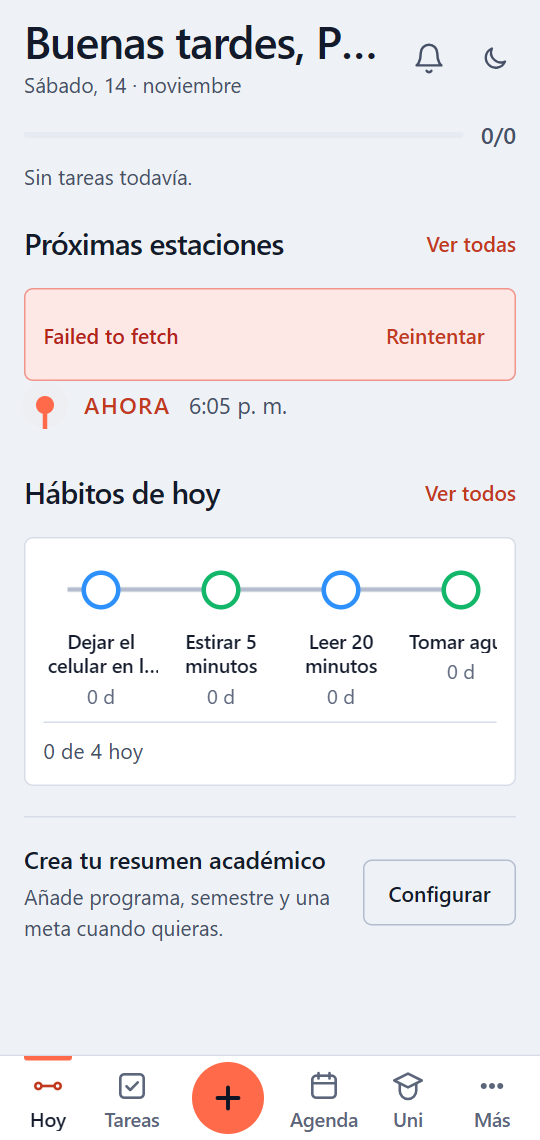
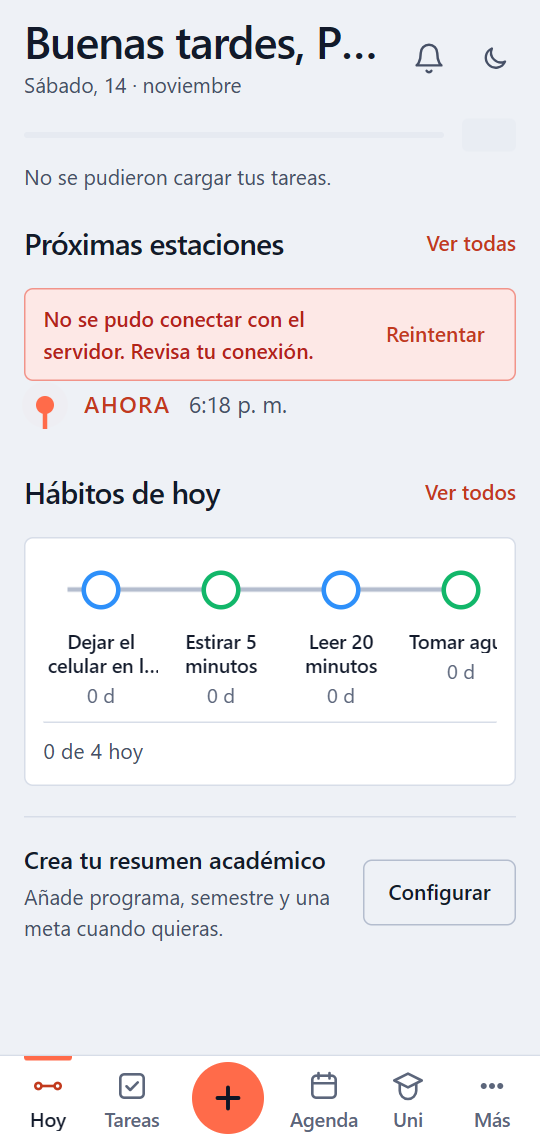
fix(front): fallos de red en español y sin datos falsos en ninguna pantalla (#168)

diff --git a/frontend/src/screens/HabitsScreen.tsx b/frontend/src/screens/HabitsScreen.tsx
@@ -1,5 +1,5 @@
 import { useEffect, useMemo, useRef, useState } from "react";
-import { ProgressBar, ScreenHeader, Skeleton } from "../components/shared";
+import { ErrorBanner, ProgressBar, ScreenHeader, Skeleton } from "../components/shared";
 import { IconBook, IconMeditate, IconNoPhone, IconPencil, IconReadingBook, IconRun, IconTarget } from "../components/icons";
 import { createHabit, deleteHabit, fetchHabitSummaries, fetchHabits, toLocalKey, todayKey, updateHabit, updateHabitCompletion, completeLabel, type Habit, type HabitType, type HabitStats, type HabitSummary, type MonthlyGoal } from "../services/habitsApi";
 
@@ -63,6 +63,8 @@ export default function HabitsScreen({ onBack, refreshTick }: Props) {
   }, [summaryKey, statsWindow, summaryTick]);
 
   const doneToday = habits.filter((habit) => habit.completedDates.includes(todayKey())).length;
+  // Sin la lista real no se afirma «0/0 hábitos hoy».
+  const habitsKnown = !loading && !(error && habits.length === 0);
   const completion = habits.length ? Math.round((doneToday / habits.length) * 100) : 0;
   const weekDates = useMemo(() => {
     const today = new Date();
@@ -167,7 +169,9 @@ export default function HabitsScreen({ onBack, refreshTick }: Props) {
 
       <div ref={scrollRef} className="min-h-0 flex-1 overflow-y-auto no-scrollbar px-4 pt-3 pb-8 flex flex-col gap-4 lg:px-8 lg:pt-6 lg:max-w-[760px] [&>*]:shrink-0">
         <div className="rounded-md border border-line bg-card p-4">
-          <p className="num text-[44px] font-semibold leading-none text-ink">{doneToday}<span className="text-[24px] text-ink-3">/{habits.length}</span> <span className="text-[16px] font-medium text-ink-2">hábitos hoy</span></p>
+          {habitsKnown
+            ? <p className="num text-[44px] font-semibold leading-none text-ink">{doneToday}<span className="text-[24px] text-ink-3">/{habits.length}</span> <span className="text-[16px] font-medium text-ink-2">hábitos hoy</span></p>
+            : loading ? <Skeleton className="h-[44px] w-44" /> : <p className="flex h-[44px] items-center text-[16px] font-medium text-ink-2">Hábitos de hoy no disponibles</p>}
           <div className="mt-3"><ProgressBar value={completion} height={4} /></div>
           {habits.length > 0 && (
             <div className="mt-4 flex items-center justify-between gap-3">
@@ -183,8 +187,8 @@ export default function HabitsScreen({ onBack, refreshTick }: Props) {
 
         {creating && <form onSubmit={submitHabit} className="rounded-lg bg-card p-4 flex flex-col gap-3">{editingId && <p className="text-[13px] font-semibold text-ink-2">Editando hábito · tu historial de cumplimiento se conserva</p>}<div role="radiogroup" aria-label="Tipo de hábito" className="flex rounded-md bg-wash p-1">{(["BUILD", "QUIT"] as const).map((option) => <button key={option} type="button" role="radio" aria-checked={type === option} onClick={() => setType(option)} className="min-h-[44px] flex-1 rounded-lg py-2 text-[13px] font-bold" style={{ background: type === option ? "var(--color-card)" : "transparent" }}>{option === "BUILD" ? "Por construir" : "Para dejar"}</button>)}</div><input autoFocus aria-label="Nombre del hábito" value={title} onChange={(event) => setTitle(event.target.value)} placeholder={type === "QUIT" ? "Ej. No fumar" : "Ej. Leer 20 minutos"} className="rounded-md border border-line bg-paper px-3 py-2.5 text-[14px] outline-none focus:border-violet" /><div className="flex rounded-md bg-wash p-1"><button type="button" onClick={() => { setFrequency("diaria"); setDaysOfWeek([1, 2, 3, 4, 5, 6, 7]); }} className="flex-1 rounded-lg py-2 text-[13px] font-bold" style={{ background: frequency === "diaria" ? "var(--color-card)" : "transparent" }}>Diario</button><button type="button" onClick={() => setFrequency("personalizada")} className="flex-1 rounded-lg py-2 text-[13px] font-bold" style={{ background: frequency === "personalizada" ? "var(--color-card)" : "transparent" }}>Días</button></div>{frequency === "personalizada" && <div className="flex justify-between">{DAYS.map((day, index) => <button key={day} type="button" onClick={() => toggleDay(index + 1)} className="h-11 min-w-0 max-w-11 flex-1 rounded-full text-[13px] font-bold" style={{ background: daysOfWeek.includes(index + 1) ? color : "var(--color-wash)", color: daysOfWeek.includes(index + 1) ? "white" : "var(--color-ink-2)" }}>{day}</button>)}</div>}<label className="flex items-center justify-between gap-3 text-[13px] font-semibold text-ink-2">Meta mensual (opcional)<span className="flex items-center gap-1"><input type="number" inputMode="numeric" min={1} max={100} aria-label="Meta mensual en porcentaje" value={monthlyGoal} onChange={(event) => setMonthlyGoal(event.target.value)} placeholder="80" className="num w-16 rounded-md border border-line bg-paper px-2 py-1.5 text-right text-[14px] outline-none focus:border-violet" /><span>%</span></span></label><div className="flex items-center justify-between"><div className="flex gap-2">{(COLORS.includes(color) ? COLORS : [...COLORS, color]).map((option) => <button key={option} type="button" aria-label={`Color ${option}`} onClick={() => setColor(option)} className="h-6 w-6 rounded-full border-2" style={{ background: option, borderColor: color === option ? "var(--color-night)" : "transparent" }} />)}</div><select value={icon} onChange={(event) => setIcon(event.target.value as keyof typeof ICONS)} className="rounded-md border border-line bg-paper px-2 py-1.5 text-[13px]"><option value="target">Meta</option><option value="book">Estudio</option><option value="run">Ejercicio</option><option value="reading">Lectura</option><option value="meditate">Calma</option><option value="phone">Sin redes</option></select></div><div className="flex gap-2"><button type="button" onClick={resetForm} className="rounded-md bg-wash px-3 py-2 text-[13px] font-bold text-ink-2">Cancelar</button><button disabled={!title.trim() || saving} className="rounded-md bg-violet px-3 py-2 text-[13px] font-bold text-white disabled:opacity-50">{saving ? (editingId ? "Guardando..." : "Creando...") : editingId ? "Guardar cambios" : "Crear hábito"}</button></div></form>}
 
-        {error && <p className="text-[13px] font-semibold text-danger">{error}</p>}
-        {loading ? <HabitListSkeleton /> : habits.length === 0 ? <div className="rounded-md border border-dashed border-line-strong px-5 py-10 text-center"><p className="font-display text-[22px] font-semibold leading-none text-ink">Tu primera rutina empieza aquí</p><p className="mt-1 text-[13px] leading-relaxed text-ink-2">Crea un hábito pequeño y marca tu avance cada día.</p><button onClick={startCreate} className="mt-4 min-h-[44px] rounded-md bg-coral px-5 text-[15px] font-semibold text-night">Crear hábito</button></div> : habits.map((habit) => <HabitCard key={habit.id} habit={habit} weekDates={weekDates} saving={saving} summary={summaries[habit.id]} summaryFailed={summaryFailed} onRetrySummary={() => setSummaryTick((tick) => tick + 1)} onToggle={() => toggleHabit(habit)} onEdit={() => startEdit(habit)} onDelete={() => removeHabit(habit.id)} />)}
+        {error && <ErrorBanner message={error} onRetry={loadHabits} />}
+        {loading ? <HabitListSkeleton /> : habits.length === 0 && error ? null : habits.length === 0 ? <div className="rounded-md border border-dashed border-line-strong px-5 py-10 text-center"><p className="font-display text-[22px] font-semibold leading-none text-ink">Tu primera rutina empieza aquí</p><p className="mt-1 text-[13px] leading-relaxed text-ink-2">Crea un hábito pequeño y marca tu avance cada día.</p><button onClick={startCreate} className="mt-4 min-h-[44px] rounded-md bg-coral px-5 text-[15px] font-semibold text-night">Crear hábito</button></div> : habits.map((habit) => <HabitCard key={habit.id} habit={habit} weekDates={weekDates} saving={saving} summary={summaries[habit.id]} summaryFailed={summaryFailed} onRetrySummary={() => setSummaryTick((tick) => tick + 1)} onToggle={() => toggleHabit(habit)} onEdit={() => startEdit(habit)} onDelete={() => removeHabit(habit.id)} />)}
       </div>
     </div>
   );

diff --git a/frontend/src/screens/HomeScreen.tsx b/frontend/src/screens/HomeScreen.tsx
@@ -1,7 +1,7 @@
 import { useEffect, useMemo, useState } from "react";
 import ThemeToggle from "../components/ThemeToggle";
 import NotificationBell from "../components/NotificationBell";
-import { Badge, CategoryBadge, PriorityDot, ProgressBar, SectionTitle, Station, ErrorBanner } from "../components/shared";
+import { Badge, CategoryBadge, PriorityDot, ProgressBar, SectionTitle, Station, ErrorBanner, Skeleton } from "../components/shared";
 import { fetchTasks, toUiTask, updateTaskStatus, type UiTask } from "../services/tasksApi";
 import { fetchUserProfile, type UserProfile } from "../services/profileApi";
 import { categoryLabel, fetchCategories, type Category } from "../services/categoriesApi";
@@ -105,6 +105,8 @@ export default function HomeScreen({ userName, onTaskTap, onHabits, onFab, onVie
 
   const completedTasks = tasks.filter((task) => task.done).length;
   const pendingTasks = tasks.length - completedTasks;
+  // Hasta tener las tareas reales no se afirma nada del día (ni «0/0», ni «sin tareas», ni «vas a tiempo»).
+  const tasksKnown = !loading && !taskError;
   const taskProgress = tasks.length ? Math.round((completedTasks / tasks.length) * 100) : 0;
 
   const weekday = (new Date().getDay() + 6) % 7 + 1;
@@ -167,10 +169,14 @@ export default function HomeScreen({ userName, onTaskTap, onHabits, onFab, onVie
         </div>
         <div className="mt-3 flex items-center gap-3">
           <div className="flex-1"><ProgressBar value={taskProgress} height={4} /></div>
-          <p className="num whitespace-nowrap text-[15px] font-medium text-ink-2">{completedTasks}/{tasks.length}</p>
+          {tasksKnown
+            ? <p className="num whitespace-nowrap text-[15px] font-medium text-ink-2">{completedTasks}/{tasks.length}</p>
+            : <Skeleton className="h-[22px] w-9" />}
         </div>
         <p className="mt-1.5 text-[14px] text-ink-2">
-          {tasks.length === 0
+          {!tasksKnown
+            ? (taskError ? "No se pudieron cargar tus tareas." : <Skeleton className="h-[20px] w-44" />)
+            : tasks.length === 0
             ? "Sin tareas todavía."
             : overdueCount > 0
               ? `${overdueCount} ${overdueCount === 1 ? "vencida" : "vencidas"} · ${pendingTasks - overdueCount} por llegar`

diff --git a/frontend/src/components/shared.tsx b/frontend/src/components/shared.tsx
@@ -335,13 +335,10 @@ export function Skeleton({ className = "" }: { className?: string; }) {
 }
 
 // Error de carga o de acción: mensaje corto y, si se puede, un «Reintentar» de 44 px.
-// El navegador reporta los fallos de red en inglés («Failed to fetch»); al estudiante se le dice en español qué hacer.
-const NETWORK_ERROR = /failed to fetch|networkerror|load failed|network request failed/i;
 export function ErrorBanner({ message, onRetry, className = "" }: { message: string; onRetry?: () => void; className?: string; }) {
-  const text = NETWORK_ERROR.test(message) ? "No se pudo conectar con el servidor. Revisa tu conexión." : message;
   return (
     <div role="alert" className={`flex items-center justify-between gap-3 rounded-md border border-danger-line bg-danger-wash px-3 py-2 ${className}`}>
-      <p className="text-[14px] font-semibold text-danger">{text}</p>
+      <p className="text-[14px] font-semibold text-danger">{message}</p>
       {onRetry && <button type="button" onClick={onRetry} className="min-h-[44px] flex-shrink-0 px-2 text-[14px] font-semibold text-coral-ink">Reintentar</button>}
     </div>
   );

diff --git a/frontend/src/services/apiError.ts b/frontend/src/services/apiError.ts
@@ -6,3 +6,21 @@ export async function readErrorMessage(response: Response, fallback: string): Pr
     return fallback;
   }
 }
+
+export const NETWORK_ERROR_MESSAGE = "No se pudo conectar con el servidor. Revisa tu conexión.";
+
+/**
+ * El navegador reporta los fallos de red como TypeError en inglés («Failed to fetch», «Load failed»). Se traducen
+ * una sola vez aquí para que ninguna pantalla, formulario ni aviso muestre texto en inglés al estudiante.
+ */
+export function translateNetworkErrors(): void {
+  const original = window.fetch.bind(window);
+  window.fetch = async (...args: Parameters<typeof fetch>) => {
+    try {
+      return await original(...args);
+    } catch (error) {
+      if (error instanceof TypeError) throw new Error(NETWORK_ERROR_MESSAGE);
+      throw error;
+    }
+  };
+}

diff --git a/frontend/src/main.tsx b/frontend/src/main.tsx
@@ -3,8 +3,10 @@ import ReactDOM from 'react-dom/client'
 import App from './App'
 import './index.css'
 import { initTheme } from './hooks/useTheme'
+import { translateNetworkErrors } from './services/apiError'
 
 initTheme()
+translateNetworkErrors()
 
 ReactDOM.createRoot(document.getElementById('root')!).render(
   <React.StrictMode>
